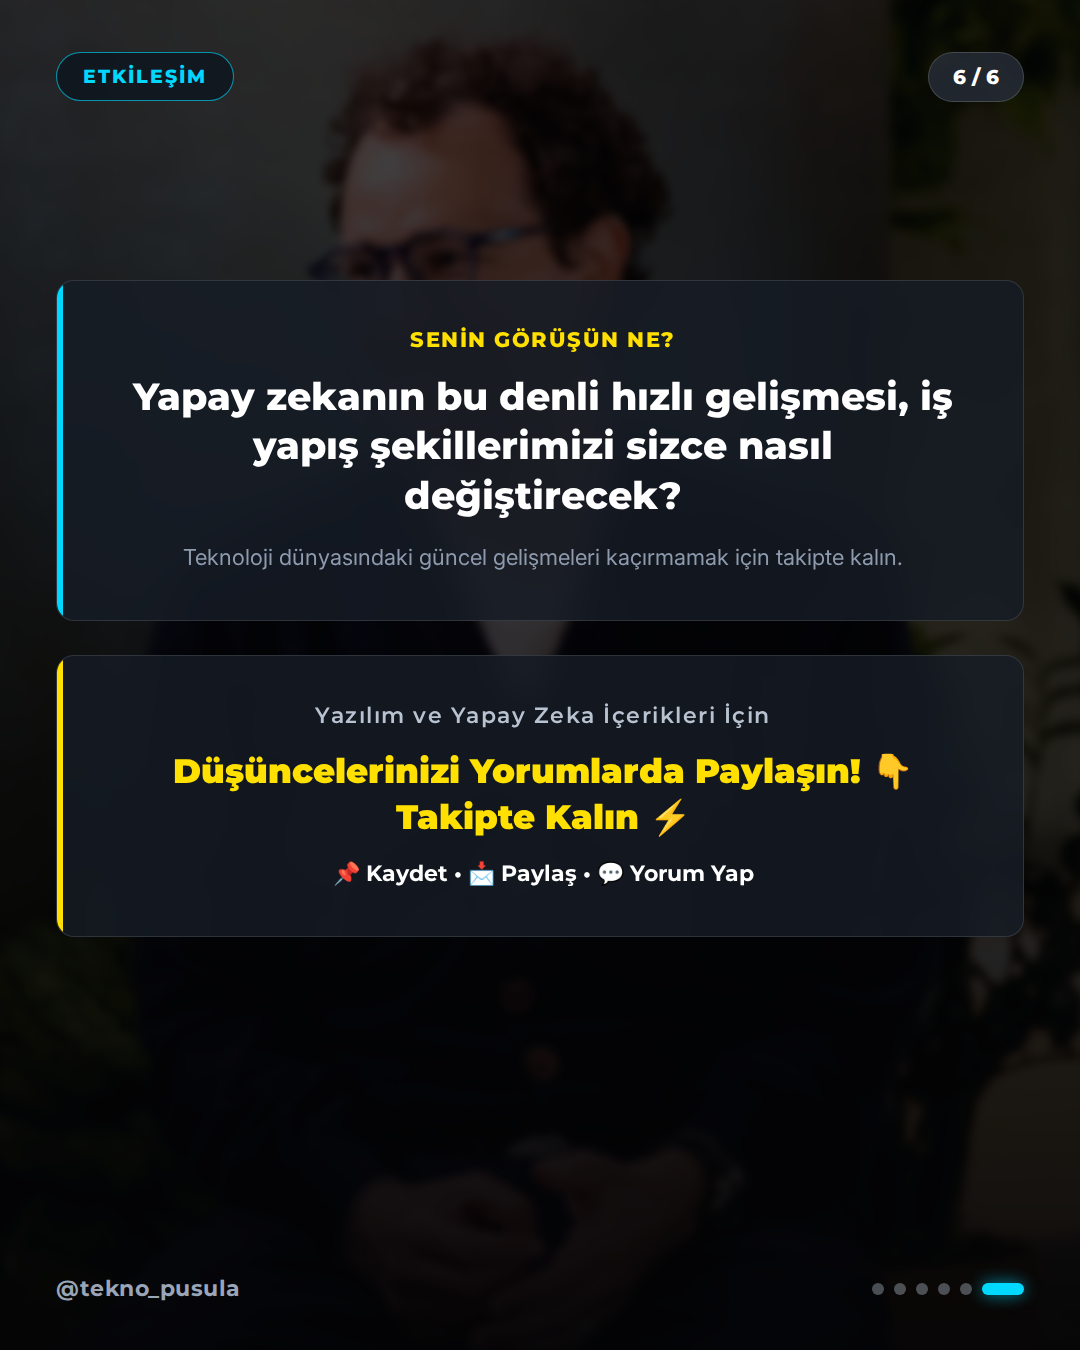
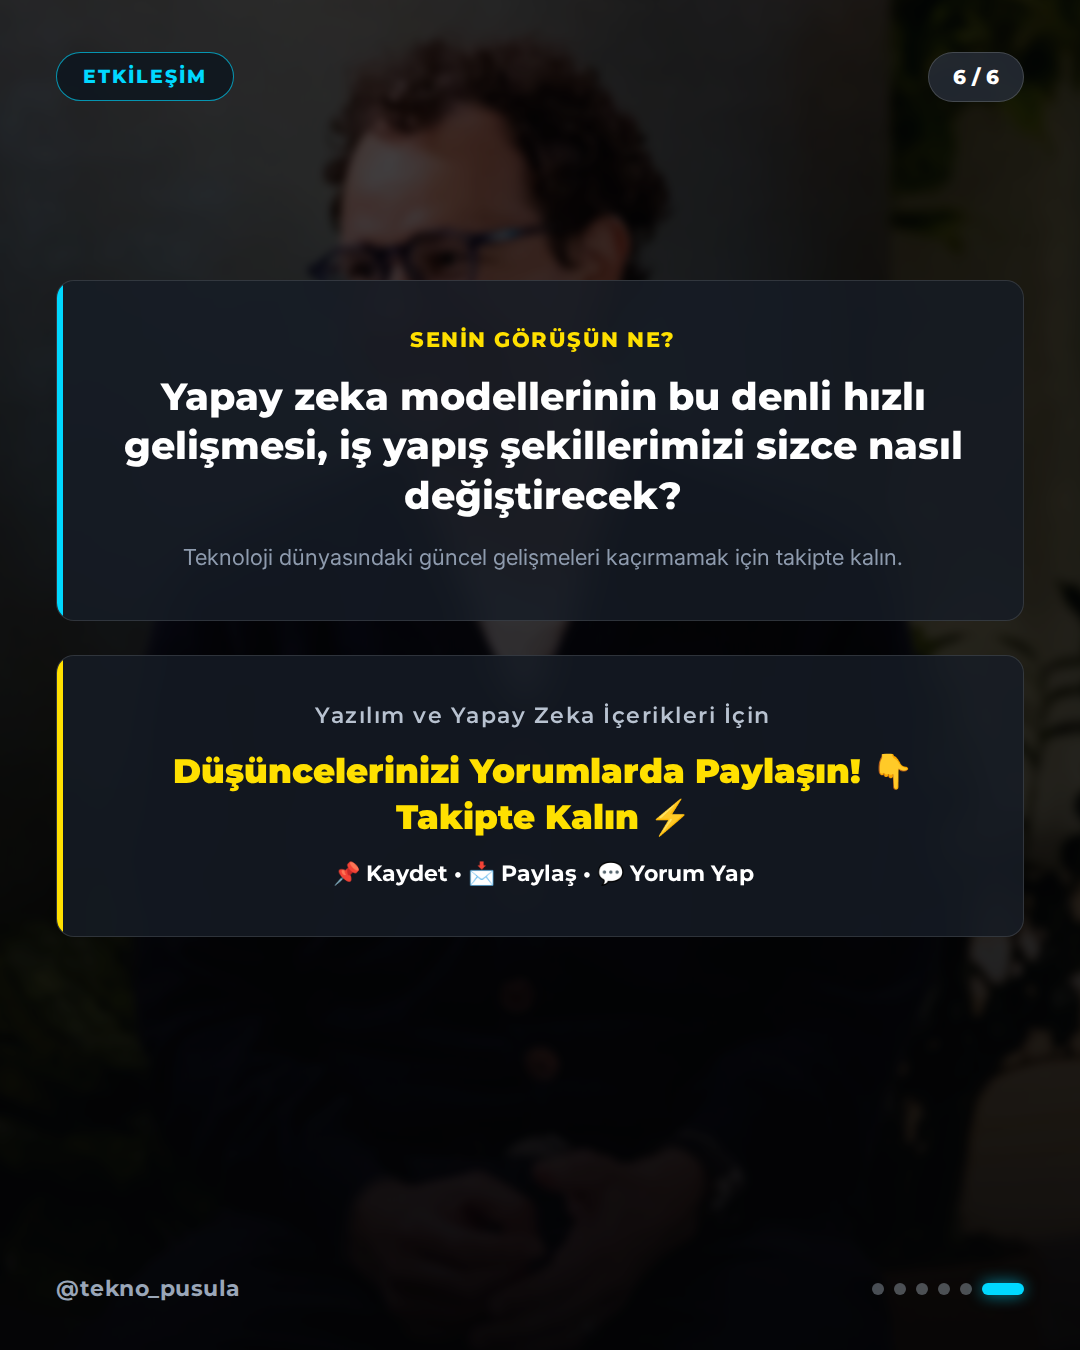
🤖 post: 2026-11-07 09:00 – Why a new report on Anthropic automating AI development is a

Changed region(s): [[0.1222, 0.28, 0.8861, 0.3422]]

diff --git a/output/2026-11-07/01-0900-why-a-new-report-on-anthropic-automating-ai-deve/verification.md b/output/2026-11-07/01-0900-why-a-new-report-on-anthropic-automating-ai-deve/verification.md
@@ -3,64 +3,58 @@
 **Haber:** Why a new report on Anthropic automating AI development is alarming researchers
 **Canonical URL:** https://www.theverge.com/ai-artificial-intelligence/1029126/anthropic-metr-report-accelerating-ai-development
 **Kaynaklar:** The Verge, TechCrunch, Wired, Google Blog
-**Kontrol zamanı:** 2026-11-07T15:47:27+03:00
+**Kontrol zamanı:** 2026-11-07T15:52:28+03:00
 **Sonuç:** ✅ YAYINLANABİLİR
 
 ---
 
 ## İddia Bazlı Sonuçlar
 
-### 1. Anthropic modelleri, bir yıl öncesine göre kabaca iki kat daha hızlı gelişiyor.
+### 1. Anthropic'in yapay zeka modelleri, bir yıl öncesine göre yaklaşık iki kat daha hızlı gelişmektedir.
 - **Karar:** ✅ `supported`
 - **Kanıtlar:**
   - [https://www.theverge.com/ai-artificial-intelligence/1029126/anthropic-metr-report-accelerating-ai-development](https://www.theverge.com/ai-artificial-intelligence/1029126/anthropic-metr-report-accelerating-ai-development)
-    > with the company’s models improving roughly twice as quickly as a year ago
-  - [https://www.theverge.com/ai-artificial-intelligence/1029126/anthropic-metr-report-accelerating-ai-development](https://www.theverge.com/ai-artificial-intelligence/1029126/anthropic-metr-report-accelerating-ai-development)
     > One of METR’s most noteworthy findings is that Anthropic’s AI models are improving roughly twice as quickly as they were a year ago
 
-### 2. AI safety research organization METR published a report on Thursday following an 11-week investigation inside Anthropic.
+### 2. Yapay zeka güvenlik araştırma kuruluşu METR, Anthropic bünyesinde 11 hafta süren bir incelemenin ardından Perşembe günü bir rapor yayınladı.
 - **Karar:** ✅ `supported`
 - **Kanıtlar:**
   - [https://www.theverge.com/ai-artificial-intelligence/1029126/anthropic-metr-report-accelerating-ai-development](https://www.theverge.com/ai-artificial-intelligence/1029126/anthropic-metr-report-accelerating-ai-development)
     > That’s according to a new report published Thursday by the AI safety research organization METR, following an 11-week investigation inside the company
 
-### 3. Anthropic employees using the company's most capable internal model self-reported being around 12 times as productive at their work.
+### 3. Anthropic çalışanları, şirketin en yetenekli iç modelini kullanırken, yapay zeka desteği olmadan çalışacaklarına kıyasla ortalama 12 kat daha üretken olduklarını bildirdi.
 - **Karar:** ✅ `supported`
 - **Kanıtlar:**
   - [https://www.theverge.com/ai-artificial-intelligence/1029126/anthropic-metr-report-accelerating-ai-development](https://www.theverge.com/ai-artificial-intelligence/1029126/anthropic-metr-report-accelerating-ai-development)
     > METR wrote that employees using Anthropic’s most capable internal model on average self-reported being around 12 times as productive at their respective work as they would have been without AI assistance
-  - [https://www.theverge.com/ai-artificial-intelligence/1029126/anthropic-metr-report-accelerating-ai-development](https://www.theverge.com/ai-artificial-intelligence/1029126/anthropic-metr-report-accelerating-ai-development)
-    > METR wrote that employees using Anthropic’s most capable internal model on average self-reported being around 12 times as productive at their work as they would have been without AI assistance
 
-### 4. Anthropic has finished training three unreleased models codenamed Model 2, Model 3, and Model 4 over the past six months.
+### 4. Anthropic, henüz yayınlanmamış Model 2, Model 3 ve Model 4 kod adlı üç yeni modelin eğitimini tamamladı.
 - **Karar:** ✅ `supported`
 - **Kanıtlar:**
   - [https://www.theverge.com/ai-artificial-intelligence/1029126/anthropic-metr-report-accelerating-ai-development](https://www.theverge.com/ai-artificial-intelligence/1029126/anthropic-metr-report-accelerating-ai-development)
     > Over the past six months, Anthropic has finished training three models it has yet to release, according to METR. The pace of development is swift, with the models — codenamed Model 2, Model 3, and Model 4 — completing training in July, August-September, and September-October, respectively.
 
-### 5. METR identified an unreleased Anthropic model dating back to 2022 called Unreleased 2022.
+### 5. Anthropic'in henüz yayınlanmamış modellerinden Model 2 Temmuz'da, Model 3 Ağustos-Eylül döneminde, Model 4 ise Eylül-Ekim döneminde eğitimini tamamladı.
 - **Karar:** ✅ `supported`
 - **Kanıtlar:**
   - [https://www.theverge.com/ai-artificial-intelligence/1029126/anthropic-metr-report-accelerating-ai-development](https://www.theverge.com/ai-artificial-intelligence/1029126/anthropic-metr-report-accelerating-ai-development)
-    > METR also identified an unreleased model dating back to 2022, called Unreleased 2022.
+    > The pace of development is swift, with the models — codenamed Model 2, Model 3, and Model 4 — completing training in July, August-September, and September-October, respectively.
 
-### 6. Anthropic redacted a majority of the evidence found most informative in the public version of METR's report.
+### 6. METR tarafından hazırlanan yaklaşık 100 sayfalık raporun kamuya açık versiyonunda, Anthropic tarafından birçok kanıtın üzeri çizilerek sansürlendi.
 - **Karar:** ✅ `supported`
 - **Kanıtlar:**
-  - [https://www.theverge.com/ai-artificial-intelligence/1029126/anthropic-metr-report-accelerating-ai-development](https://www.theverge.com/ai-artificial-intelligence/1029126/anthropic-metr-report-accelerating-ai-development)
-    > “For the public version, Anthropic redacted a majority of the evidence we found most informative,” METR wrote on X.
   - [https://www.theverge.com/ai-artificial-intelligence/1029126/anthropic-metr-report-accelerating-ai-development](https://www.theverge.com/ai-artificial-intelligence/1029126/anthropic-metr-report-accelerating-ai-development)
     > “We submitted a ~100-page full report on our assessment to Anthropic. For the public version, Anthropic redacted a majority of the evidence we found most informative,” METR wrote on X.
 
-### 7. OpenAI stated in September that it is making strong progress toward building an AI researcher by March 2028.
+### 7. OpenAI, Eylül ayında yaptığı açıklamada, Mart 2028'e kadar derin öğrenme ve hizalama konusunda ilerleme kaydedebilecek bir yapay zeka araştırmacısı geliştirmeye çalıştığını belirtti.
 - **Karar:** ⚠ `not_found`
 - **Kanıt:** yok
 
-### 8. Anthropic cofounder Sam McCandlish stated that the company plans to publish its own report on the speed of AI progress in the coming weeks.
+### 8. Anthropic kurucu ortağı Sam McCandlish, X platformunda yaptığı paylaşımda raporun bazı kısımlarının ticari hassasiyet nedeniyle sansürlendiğini kabul etti.
 - **Karar:** ✅ `supported`
 - **Kanıtlar:**
   - [https://www.theverge.com/ai-artificial-intelligence/1029126/anthropic-metr-report-accelerating-ai-development](https://www.theverge.com/ai-artificial-intelligence/1029126/anthropic-metr-report-accelerating-ai-development)
-    > He said the company plans to publish its own report on the speed of AI progress “in the coming weeks,” as well as new steps it’s taking to strengthen safety.
+    > “We redacted a lot, and I accept that this makes it harder for others to check METR’s work,” Anthropic cofounder Sam McCandlish acknowledged in a lengthy post on X responding to METR’s findings. “But we determined that sharing exactly what is driving the speedup isn’t the right thing to do, both because it’s commercially sensitive and because it risks handing out a roadmap for others to go faster,” he said
 
 ---
 
@@ -68,14 +62,14 @@
 
 | İddia | 1. Tur | 2. Tur | Nihai |
 |-------|--------|--------|-------|
-| Anthropic modelleri, bir yıl öncesine göre kabaca iki kat da | supported | supported | supported |
-| AI safety research organization METR published a report on T | supported | supported | supported |
-| Anthropic employees using the company's most capable interna | supported | supported | supported |
-| Anthropic has finished training three unreleased models code | supported | supported | supported |
-| METR identified an unreleased Anthropic model dating back to | supported | supported | supported |
-| Anthropic redacted a majority of the evidence found most inf | supported | supported | supported |
-| OpenAI stated in September that it is making strong progress | not_found | not_found | not_found |
-| Anthropic cofounder Sam McCandlish stated that the company p | supported | supported | supported |
+| Anthropic'in yapay zeka modelleri, bir yıl öncesine göre yak | supported | supported | supported |
+| Yapay zeka güvenlik araştırma kuruluşu METR, Anthropic bünye | supported | supported | supported |
+| Anthropic çalışanları, şirketin en yetenekli iç modelini kul | supported | supported | supported |
+| Anthropic, henüz yayınlanmamış Model 2, Model 3 ve Model 4 k | supported | supported | supported |
+| Anthropic'in henüz yayınlanmamış modellerinden Model 2 Temmu | supported | supported | supported |
+| METR tarafından hazırlanan yaklaşık 100 sayfalık raporun kam | supported | supported | supported |
+| OpenAI, Eylül ayında yaptığı açıklamada, Mart 2028'e kadar d | not_found | not_found | not_found |
+| Anthropic kurucu ortağı Sam McCandlish, X platformunda yaptı | supported | supported | supported |
 
 ## Kaynak Metinleri
 

diff --git a/output/2026-11-07/01-0900-why-a-new-report-on-anthropic-automating-ai-deve/captions.md b/output/2026-11-07/01-0900-why-a-new-report-on-anthropic-automating-ai-deve/captions.md
@@ -2,35 +2,41 @@
 
 ## INSTAGRAM
 
-Yapay zeka dünyasında vites yükseliyor! 🚀 Anthropic'in iç süreçlerini inceleyen METR raporu, şirketin yapay zeka geliştirme hızının bir yıl öncesine göre iki katına çıktığını ortaya koydu.
+Yapay zeka dünyasında hız kesmek yok! Anthropic, yeni modelleriyle çıtayı yükseltmeye devam ediyor. 🚀
 
-Rapora göre, Anthropic çalışanları en yetenekli modelleri kullandıklarında üretkenliklerinde 12 kata varan bir artış gözlemledi. Şirket, Model 2, 3 ve 4 kod adlarıyla yeni modellerini şimdiden eğitmiş durumda.
+Son raporlara göre Anthropic çalışanları, kendi geliştirdikleri modelleri kullanarak tam 12 kat daha üretken hale geldi. Bu, iş yapış şekillerimizde devrim niteliğinde bir veri.
 
-Teknoloji dünyasındaki bu baş döndürücü hız, iş yapış şekillerimizi kökten değiştirmeye aday. Sizce yapay zekanın bu denli hızlı gelişmesi, profesyonel hayatımızda en çok hangi alanı dönüştürecek?
+Model 2, 3 ve 4'ün eğitim süreçleri tamamlanırken, güvenlik ve şeffaflık tartışmaları da gündemdeki yerini koruyor. Yapay zeka modellerinin bu denli hızlı gelişmesi, iş yapış şekillerimizi sizce nasıl değiştirecek?
+
+Teknoloji dünyasındaki güncel gelişmeleri kaçırmamak için takipte kalın.
 
 Kaynak: The Verge, TechCrunch
 
-#YapayZeka #Anthropic #Teknoloji #AI #Gelecek #İnovasyon #Verimlilik #TechNews #ArtificialIntelligence #FutureOfWork
+#YapayZeka #Anthropic #Teknoloji #AI #Gelecek #Verimlilik #Innovation #TechNews #ArtificialIntelligence #DijitalDönüşüm
 
 ## TIKTOK
 
-Anthropic'te neler oluyor? 🤖 METR raporu, şirketin yapay zeka geliştirme hızının iki katına çıktığını ve çalışanların üretkenliğinin 12 kat arttığını gösteriyor. Yeni modeller yolda! Sizce bu hız bizi nereye götürecek? Kaynak: The Verge, TechCrunch
+Anthropic'te neler oluyor? 🤖 Yeni modeller yolda ve üretkenlik 12 kat arttı! Yapay zeka dünyasındaki bu hızlı değişimi nasıl değerlendiriyorsunuz? Yorumlarda buluşalım.
+
+Kaynak: The Verge, TechCrunch
 
 #YapayZeka #Anthropic #Teknoloji #AI #Gelecek
 
 ## X
 
-Anthropic'in yapay zeka geliştirme hızı ikiye katlandı! METR raporuna göre, çalışanlar yeni modellerle 12 kata varan üretkenlik artışı yaşıyor. Model 2, 3 ve 4 yolda. İş yapış şekillerimiz değişiyor. Sizce bu hız sürdürülebilir mi? Kaynak: The Verge, TechCrunch
+Anthropic'ten devrim niteliğinde veriler: Çalışan üretkenliği 12 kat arttı! 🚀 Model 2, 3 ve 4'ün eğitim süreçleri tamamlandı. Yapay zekanın bu hızı iş dünyasını nasıl dönüştürecek? Sizce hazır mıyız?
+
+Kaynak: The Verge, TechCrunch #YapayZeka #Anthropic
 
 #YapayZeka #Anthropic
 
 ## THREADS
 
-Anthropic'in Hızlanan Yapay Zeka Yarışı
+Anthropic'in Hızlı Yükselişi 🚀
 
-METR raporu, Anthropic'in yapay zeka geliştirme hızının bir yıl öncesine göre iki katına çıktığını doğruladı. Çalışanlar, yeni modellerle 12 kata varan üretkenlik artışı bildiriyor.
+Anthropic, yeni modelleriyle yapay zeka dünyasında vites artırıyor. Çalışanların üretkenliği 12 kat artarken, Model 2, 3 ve 4'ün eğitim süreçleri tamamlandı.
 
-Şirket, Model 2, 3 ve 4 üzerinde çalışmalarını sürdürüyor. Yapay zekanın bu denli hızlı gelişmesi, iş yapış şekillerimizi sizce nasıl değiştirecek? 💭
+Bu hızlı gelişim, güvenlik ve şeffaflık tartışmalarını da beraberinde getiriyor. Sizce yapay zeka modellerinin bu denli hızlı gelişmesi, iş yapış şekillerimizi nasıl değiştirecek? 💭
 
 Kaynak: The Verge, TechCrunch
 
@@ -38,27 +44,24 @@ Kaynak: The Verge, TechCrunch
 
 ## LINKEDIN
 
-Yapay zeka ekosisteminde rekabet kızışıyor. Anthropic'in iç süreçlerini mercek altına alan METR raporu, şirketin model geliştirme hızının bir yıl öncesine göre iki katına çıktığını ortaya koyuyor.
+Yapay zeka ekosisteminde rekabet ve gelişim hızı yeni bir boyuta taşınıyor. Anthropic tarafından paylaşılan son veriler, yapay zeka araçlarının iş süreçlerine entegrasyonunun çalışan verimliliğinde 12 kata varan bir sıçrama yarattığını gösteriyor.
 
-Öne çıkan veriler:
-- Çalışan üretkenliğinde 12 kata varan artış.
-- Model 2, 3 ve 4 kod adlarıyla yeni nesil modellerin eğitim süreci.
-- Sektörel inovasyon hızında gözle görülür ivmelenme.
+Şirketin Model 2, 3 ve 4 kod adlı yeni modellerinin eğitim süreçlerini tamamlaması, sektördeki inovasyon hızının bir yıl öncesine göre iki katına çıktığını kanıtlıyor. Ancak bu hızlı gelişim, ticari hassasiyetler ve güvenlik raporlarındaki şeffaflık dengesi üzerine önemli tartışmaları da beraberinde getiriyor.
 
-Bu gelişmeler, profesyonel iş süreçlerinde verimliliğin yeniden tanımlanacağı bir döneme girdiğimizi gösteriyor. Sizce kurumlar bu hıza uyum sağlamak için stratejilerini nasıl güncellemeli?
+Sizce yapay zeka modellerinin bu denli hızlı gelişmesi, kurumsal iş yapış şekillerimizi nasıl dönüştürecek?
 
 Kaynak: The Verge, TechCrunch
 
-#YapayZeka #Anthropic #DijitalDönüşüm #İnovasyon #Teknoloji
+#YapayZeka #Anthropic #İnovasyon #Verimlilik #Teknoloji
 
 ## FACEBOOK
 
-Yapay zeka dünyasında vites yükseliyor! Anthropic'in iç süreçlerini inceleyen METR raporu, şirketin yapay zeka geliştirme hızının bir yıl öncesine göre iki katına çıktığını ortaya koydu.
+Yapay zeka dünyasında neler değişiyor? Anthropic'in son raporu, yapay zeka desteğiyle çalışanların 12 kat daha üretken hale geldiğini gösteriyor. 🚀
 
-Rapora göre, Anthropic çalışanları en yetenekli modelleri kullandıklarında üretkenliklerinde 12 kata varan bir artış gözlemledi. Şirket, Model 2, 3 ve 4 kod adlarıyla yeni modellerini şimdiden eğitmiş durumda.
+Model 2, 3 ve 4'ün eğitim süreçleri tamamlanırken, sektördeki gelişim hızı da iki katına çıktı. Bu hızlı değişim, iş yapış şekillerimizi kökten değiştirmeye aday.
 
-Teknoloji dünyasındaki bu baş döndürücü hız, iş yapış şekillerimizi kökten değiştirmeye aday. Sizce yapay zekanın bu denli hızlı gelişmesi, profesyonel hayatımızda en çok hangi alanı dönüştürecek?
+Sizce yapay zeka modellerinin bu denli hızlı gelişmesi, iş dünyasını nasıl etkileyecek? Yorumlarınızı bekliyoruz.
 
 Kaynak: The Verge, TechCrunch
 
-#YapayZeka #Anthropic #Teknoloji #AI #Gelecek
+#YapayZeka #Anthropic #Teknoloji #Gelecek #Verimlilik
